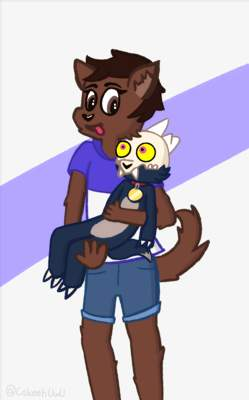
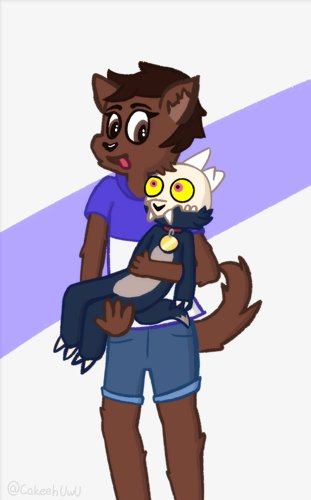
improved thumbnails

diff --git a/assets/personal/converter.py b/assets/personal/converter.py
@@ -31,8 +31,8 @@ for file in full_res_art:
         else:
             img = Image.open(f'{parent_dir}{file}').convert("RGB")
             print(f"thumb created for {file}")
-            img.thumbnail(size=(400,400))
-            img.save(f'{thumb_path}{filename_no_ext}.jpg', optimize=True, quality=65)
+            img.thumbnail(size=(500,500))
+            img.save(f'{thumb_path}{filename_no_ext}.jpg', optimize=True, quality=85)
     else:
         print("not a file")
         
